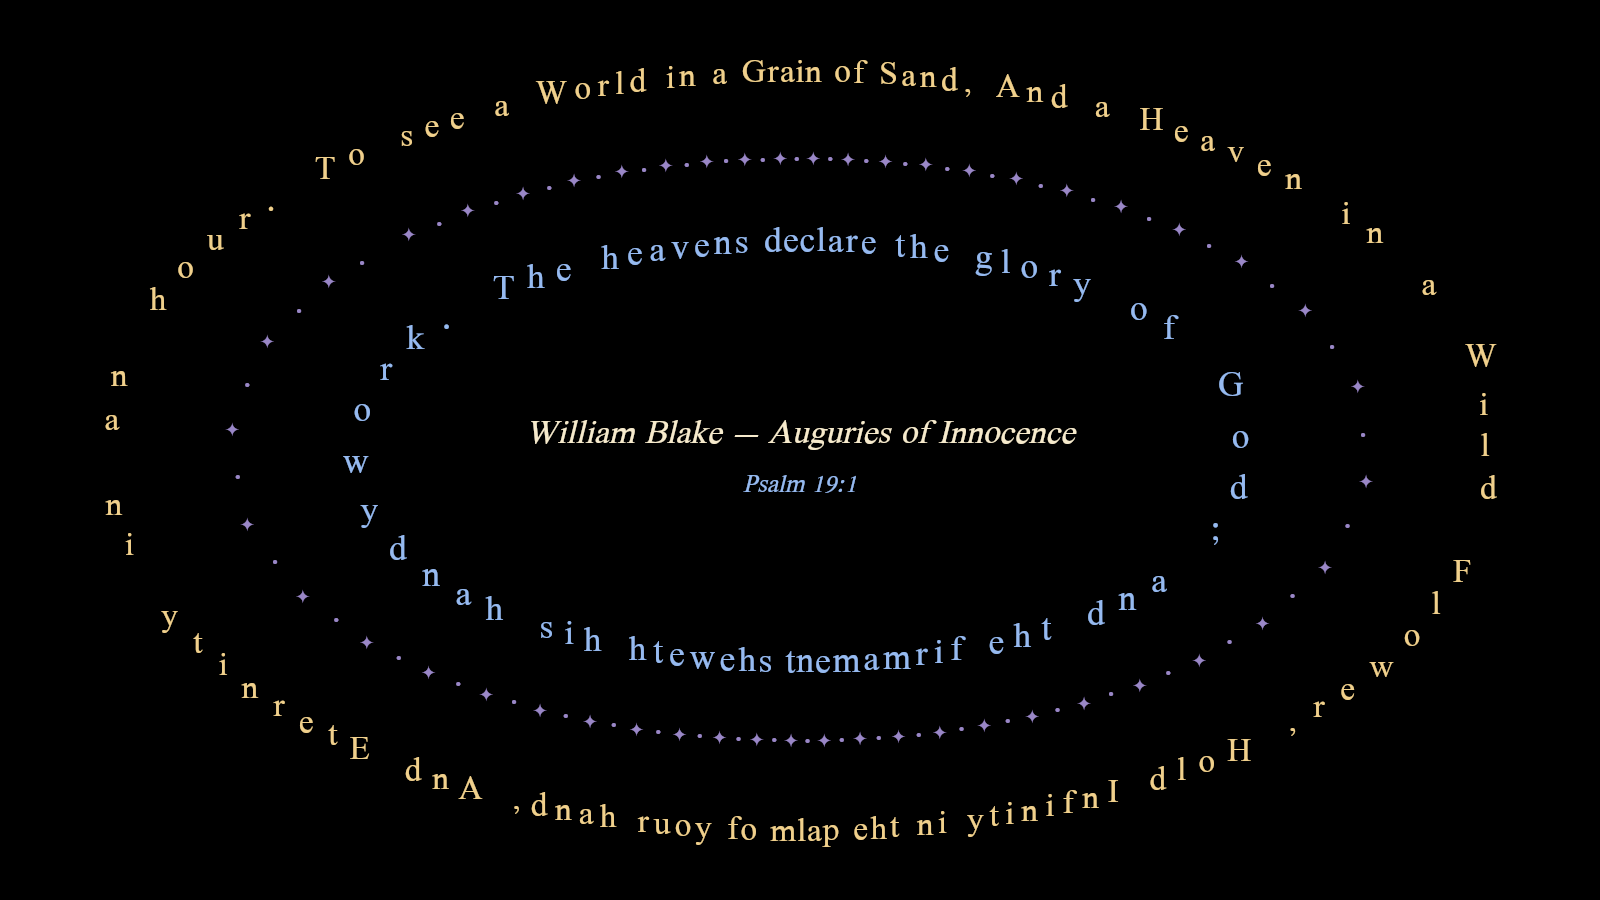
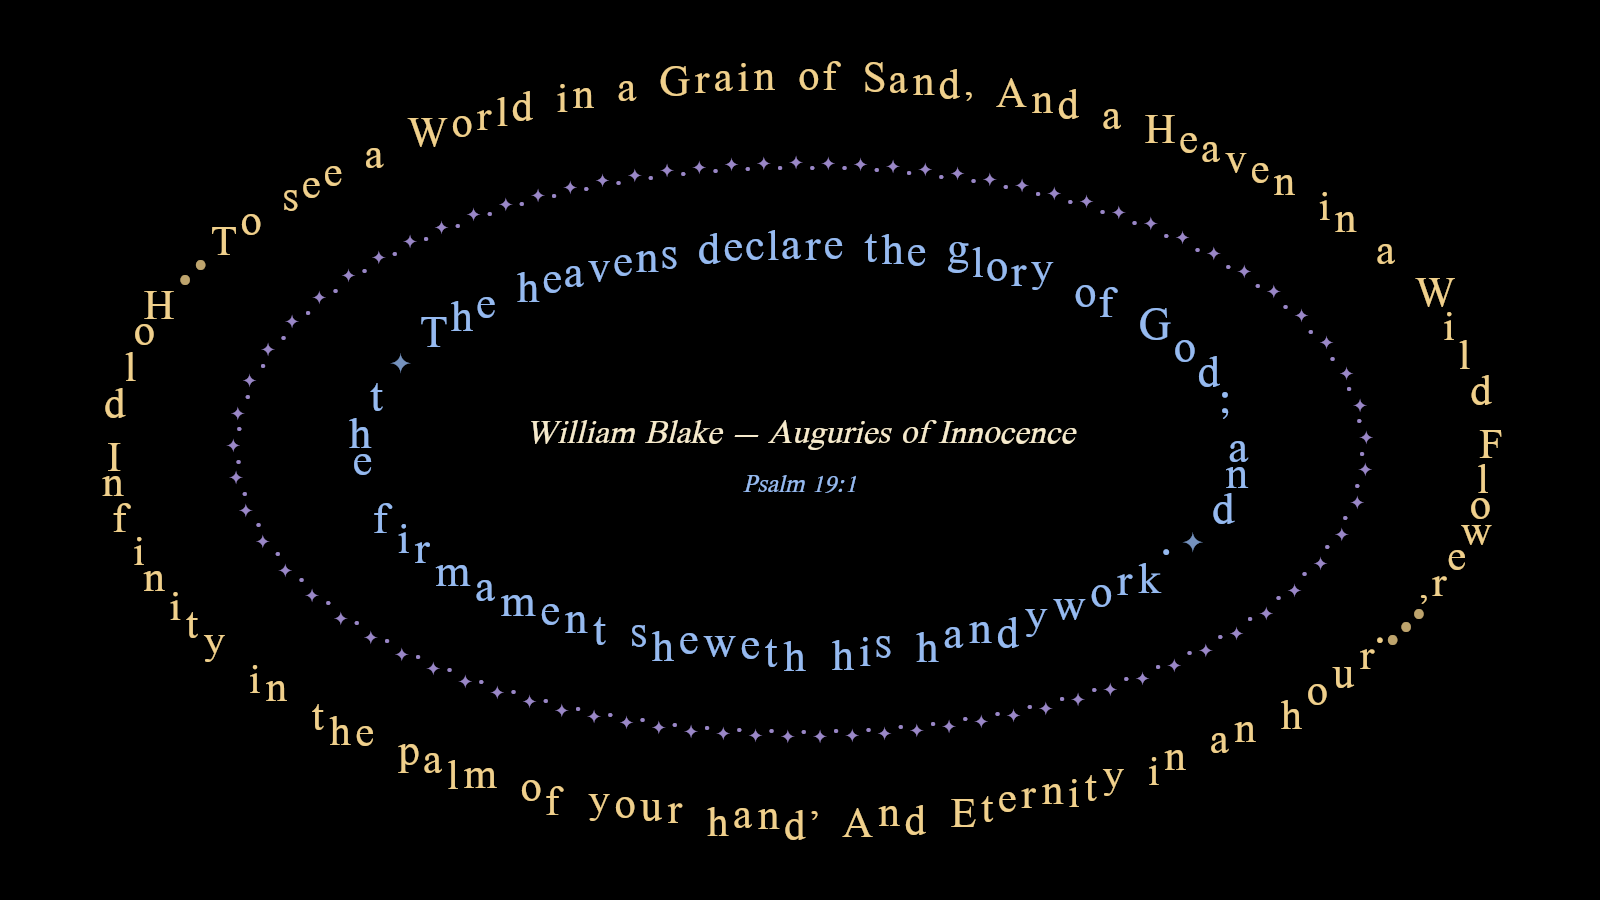
README: demo images where frame text follows its node and reads forward
Owner-approved interim images until renders of the committed demo maps
replace them: frame text laid on the outline's diagonal halves, every
line reading forward, ornament breaks where the lines meet, connectors
meeting each node at the middle of a side, and the spread setting at
half. The Dickinson image is unchanged.

Claude-Session: https://claude.ai/code/session_017pLhzvfHKkgTCvLcR2to94

diff --git a/README.md b/README.md
@@ -13,20 +13,32 @@ connection paths — is laid out as positioned font glyphs.
 
 Every mark in these images is a font glyph. Glyphs are never rotated:
 curves are made by placing upright glyphs along a path, the way ASCII
-art makes them. Each image is drawn by the new glyph-run renderer in a
-single draw call. They are rendered offscreen from the V1 work in
-progress ([#230](https://github.com/Svendsys/mandala/issues/230)); the
-app draws this way once V1 lands.
+art makes them. A frame's text takes the shape of its node and still
+reads forward: the first line runs over the top and down the right
+side, the second down the left side and along the bottom, and a few
+ornaments mark where one line ends and the next begins. Each image is
+drawn by the new glyph-run renderer in a single draw call. They are
+rendered offscreen from the V1 work in progress
+([#230](https://github.com/Svendsys/mandala/issues/230)); the app
+draws this way once V1 lands, and these images will be replaced by
+renders of committed demo maps as that work is polished.
 
 ![Ecclesiastes 3 as a mind map: "To every thing there is a season" at the center, framed by "and a time to every purpose under the heaven", with six child nodes joined by glyph connectors](docs/images/demo-ecclesiastes.png)
 
 *Ecclesiastes 3:1–8 (King James Version) as a mind map: each node in a
-frame of text or ornaments, joined by glyph connectors.*
+frame of text or ornaments, joined by glyph connectors that meet each
+node at the middle of a side.*
 
-![William Blake's Auguries of Innocence fitted once around an ellipse, with Psalm 19:1 on an inner ring](docs/images/demo-blake.png)
+![William Blake's Auguries of Innocence following an ellipse, with Psalm 19:1 on an inner ring](docs/images/demo-blake.png)
 
-*William Blake, "Auguries of Innocence", fitted exactly once around an
-ellipse, with Psalm 19:1 (King James Version) on an inner ring.*
+*William Blake, "Auguries of Innocence", following the whole outline of
+an ellipse, with Psalm 19:1 (King James Version) on an inner ring.*
+
+![The same Blake frames with their text spread halfway, ornaments closing the rest](docs/images/demo-blake-half.png)
+
+*How far the text spreads is a setting: here each line spreads halfway
+between its natural width and its whole half, and ornaments close the
+rest.*
 
 ![Emily Dickinson's "Hope" is the thing with feathers, the letters of "feathers" drifting up and fading](docs/images/demo-dickinson.png)
 
@@ -35,8 +47,8 @@ animation, with each glyph offset, scaled and faded on its own.*
 
 ![Text around a rounded rectangle and an ellipse, joined by a connector, with emoji markers at full and half opacity](docs/images/demo-frames.png)
 
-*Text around a rounded rectangle and an ellipse, a connector at half
-opacity, and emoji at full and half opacity.*
+*Text around a rounded rectangle and an ellipse, a curved connector at
+half opacity, and emoji at full and half opacity.*
 
 ## What..?
 
